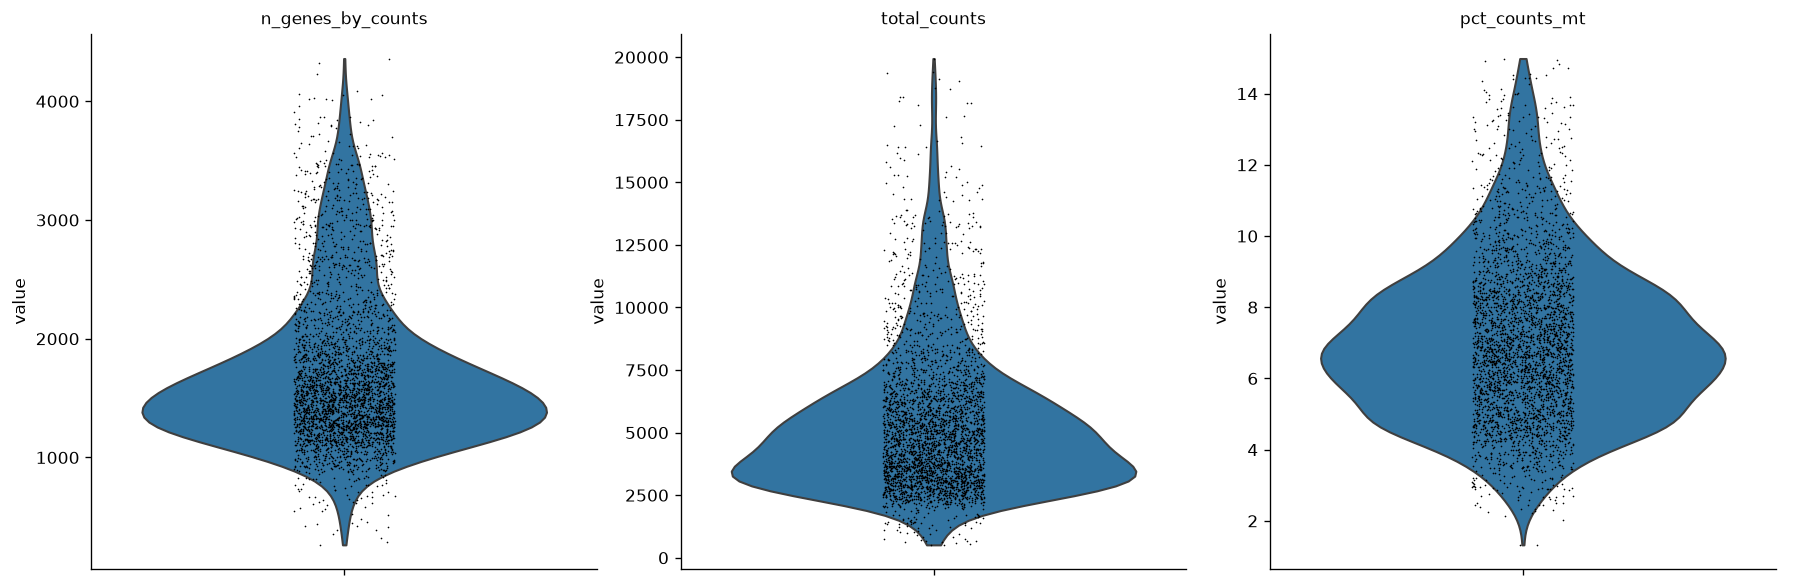
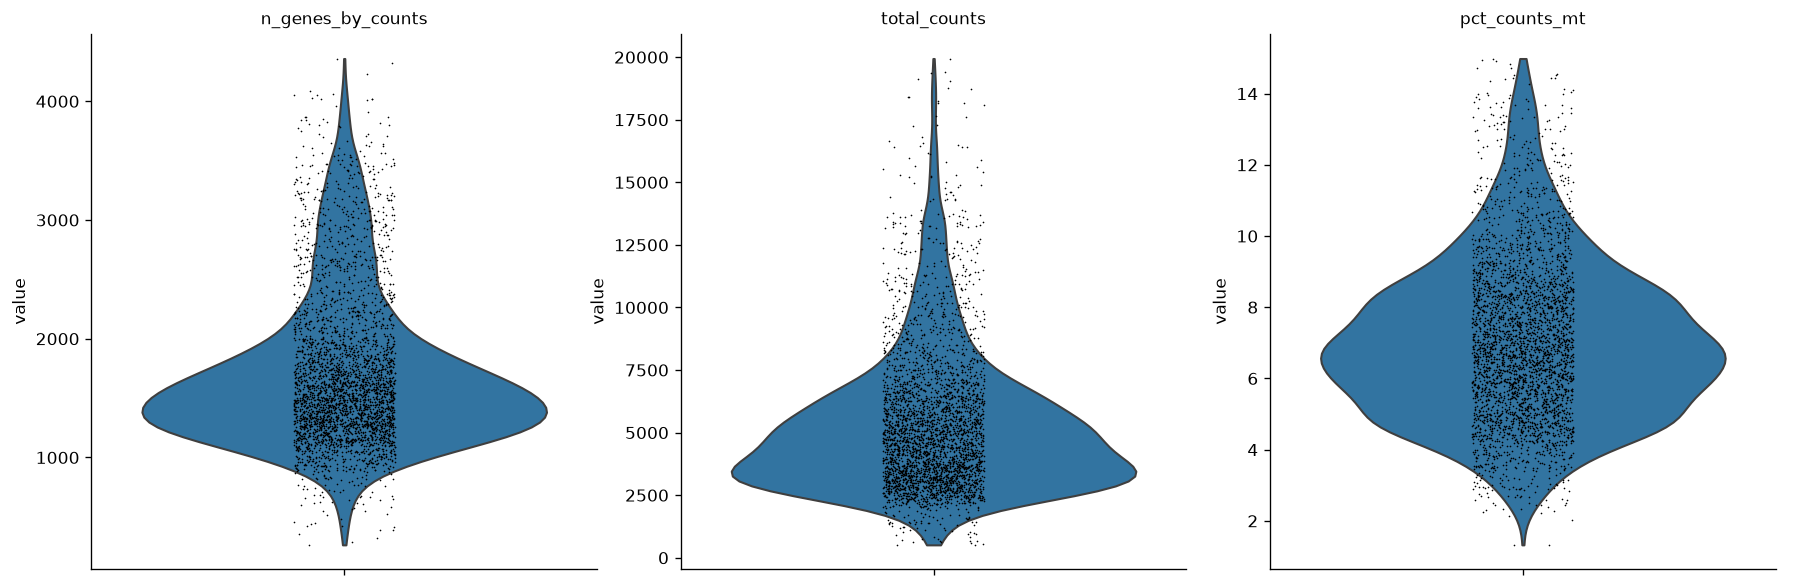
Refresh both examples from full re-runs (with dotplots)
Regenerate examples/pbmc3k/ and examples/pbmc_multibatch/ from complete agent
runs, so both now include the cluster and cell-type marker dotplots. pbmc3k
chose PCA (single batch); pbmc_multibatch chose scVI (batch correction).

diff --git a/examples/pbmc_multibatch/report.md b/examples/pbmc_multibatch/report.md
@@ -1,77 +1,85 @@
-
 # PBMC Multi-Batch scRNA-seq Analysis Report
 
 ## Overview
-This report summarizes the end-to-end analysis of `data/pbmc_multibatch.h5ad`, a peripheral blood mononuclear cell (PBMC) dataset spanning **2 batches**. The workflow proceeded from raw counts through QC, doublet removal, batch-corrected dimensionality reduction, clustering, and cell-type annotation.
+Starting data: 4,000 cells × 15,792 genes (raw counts available), with a genuine two-level `batch` covariate (`n_batches = 2`) in `obs`, indicating this dataset requires batch-aware integration.
 
-## 1. Data Overview
-- Starting dataset: **4,000 cells × 15,792 genes**, raw counts available, 2 batches present in `obs['batch']`.
-- Gene identifiers confirmed as **human gene symbols**, with mitochondrial genes identifiable via the `MT-` prefix (13 mito genes found).
+## 1. Gene Identifiers
+Gene symbols were confirmed as human HGNC symbols (e.g., *NOC2L*, *LINC00115*). The mitochondrial prefix `MT-` was detected (13 mitochondrial genes found), enabling standard PBMC QC.
 
 ## 2. Quality Control
-Per-cell QC metrics were computed (genes/cell, total counts, %mitochondrial reads):
-- Median genes/cell: 1,568 (range 264–4,360)
-- Median total counts: 4,782 (range 516–19,945)
-- Median %mito: 6.9% (range 1.3–20.0%)
+Per-cell QC metrics were computed:
+- **n_genes**: median 1,568 (range 264–4,360)
+- **total_counts**: median 4,783 (range 516–19,945)
+- **pct_counts_mt**: median 6.93% (p75 8.6%, p95 12.2%, max 20.0%)
 
-**Threshold selection:** The tool-suggested tutorial defaults (`min_genes=200`, `max_pct_mt=5.0`, `min_cells=3`) were evaluated first. The default mito cap of 5% would have discarded **3,291 of 4,000 cells (82%)** — clearly inappropriate, since the dataset's own median mito% (6.9%) already exceeds that cutoff, indicating a naturally higher baseline mitochondrial content than the tutorial assumption. Instead, thresholds were set from the dataset's own distribution: `min_genes=200` (removes 0 cells, safe floor), `max_pct_mt=15%` (trims only the extreme high-mito tail beyond the 99th percentile region), and `min_cells=3` for gene filtering.
+**Threshold decision:** The tool's tutorial-default suggestion (`max_pct_mt = 5%`) was rejected because it would have discarded 3,291/4,000 cells (82%) — this dataset's mitochondrial content is systematically higher than the generic PBMC tutorial baseline (median already 6.9%), so a 5% cutoff would eliminate the typical, healthy cell population rather than just dying cells. Instead we used a data-driven cutoff near the p95–p99 range:
+- `min_genes = 200` (removed 0 cells; existing minimum was 264)
+- `max_pct_mt = 15%` (trims only the extreme high-mito tail)
+- `min_cells = 3` (standard low-detection gene filter)
 
-**Result:** 73 cells and 90 genes removed → **3,927 cells × 15,702 genes** retained.
+**Result:** 4,000 → 3,927 cells (73 removed, 1.8%); 15,792 → 15,702 genes (90 removed).
 
 ## 3. Doublet Detection
-Scrublet was run on the filtered data. The doublet-score distribution was **not bimodal** (no clear valley), so per protocol the **median + 3×MAD** rule was applied: threshold = **0.0551**. This flagged 509 cells (12.96%) as likely doublets, which were removed.
+Scrublet was run on the filtered matrix. The score distribution was **not bimodal** (no valley detected: median 0.025, p95 0.080, p99 0.142, long right tail to 0.55). Per the decision rule, we used **median + 3×MAD = 0.0551** as the cutoff (rather than the much higher Scrublet-automatic threshold of 0.47, which would have been too permissive given the absence of a clear bimodal signal).
 
-**Result:** 3,418 cells retained after doublet removal.
+**Result:** 3,927 → 3,418 cells (509 removed, 13.0%), consistent with a batch-pooled PBMC dataset where superimposed batches can inflate apparent doublet rates.
 
 ## 4. Normalization
-Raw counts were stashed, followed by total-count normalization (target sum 1e4), log1p transformation, and highly-variable gene selection (2,000 HVGs flagged) — standard preprocessing prior to dimensionality reduction.
+Raw counts were stashed prior to any transformation. Data were total-count normalized (target sum 1e4), log1p-transformed, and 2,000 highly variable genes flagged for downstream analysis.
 
 ## 5. Dimensionality Reduction
-Since the dataset contains a genuine `batch` covariate with 2 distinct batches, **scVI** was used (rather than plain PCA) to learn a batch-corrected 10-dimensional latent embedding from raw counts restricted to the HVG set (400 training epochs). This representation (`X_scVI`) was used for all downstream neighbor graph, clustering, and UMAP computation.
+Because the dataset contains a real multi-level `batch` key (2 batches), **scVI** was used instead of plain PCA to learn a batch-corrected latent embedding (10 latent dimensions, trained for 400 epochs on raw counts restricted to HVGs). This embedding (`X_scVI`) was used for downstream neighbor graph, clustering, and UMAP.
 
 ## 6. Clustering
-Leiden clustering (resolution = 1.0) on the scVI latent space yielded **13 clusters**, ranging in size from 27 to 707 cells.
+Leiden clustering on the scVI latent space (resolution = 1.0) yielded **13 clusters**, ranging from 27 to 707 cells.
 
-## 7. Marker Genes & Cell-Type Annotation
-Wilcoxon rank-sum marker identification followed by CellTypist (Immune_All_Low model, majority voting per cluster) produced the following annotation:
+## 7. Marker Genes & Cell Type Annotation
+Wilcoxon rank-sum marker identification followed by CellTypist (`Immune_All_Low.pkl`, majority-vote per cluster) produced clear, classical PBMC identities with strong marker concordance:
 
-| Cluster | Size | Top Markers | Cell Type |
+| Cluster | Top markers | Annotated cell type | Size |
 |---|---|---|---|
-| 0 | 369 | S100A9, S100A8, S100A12, VCAN, LYZ | Classical monocytes |
-| 1 | 609 | FTH1, CTSS, NEAT1, CST3, FGL2 | Classical monocytes |
-| 2 | 388 | GNLY, NKG7, PRF1, KLRD1, CST7 | CD16+ NK cells |
-| 3 | 115 | MS4A1, CD79A, HLA-DQA1, CD79B, BANK1 | Memory B cells |
-| 4 | 707 | RPS3A, RPL30, RPL32, RPL11, RPS13 | Tcm/Naive helper T cells |
-| 5 | 155 | CD8B, RPS12, RPS3A, RPS8, RPL32 | Tcm/Naive cytotoxic T cells |
-| 6 | 465 | TRAC, IL7R, IL32, LTB, LDHB | Tem/Effector helper T cells |
-| 7 | 149 | GZMK, KLRB1, IL7R, DUSP2, LYAR | MAIT cells |
-| 8 | 27 | MALAT1, MTRNR2L12, MT-CO1, MT-ATP6, MT-ND5 | Tcm/Naive helper T cells* |
-| 9 | 31 | FCER1A, HLA-DRB1, HLA-DPB1, CD1C, HLA-DPA1 | DC2 |
-| 10 | 167 | IGHM, CD79A, IGHD, CD37, CD74 | Naive B cells |
-| 11 | 182 | CCL5, CST7, NKG7, GZMA, CD3D | Tem/Trm cytotoxic T cells |
-| 12 | 54 | LST1, AIF1, COTL1, MS4A7, FCGR3A | Non-classical monocytes |
+| 0 | S100A9, S100A8, S100A12, VCAN, LYZ | Classical monocytes | 369 |
+| 1 | FTH1, CTSS, NEAT1, CST3, FGL2 | Classical monocytes | 609 |
+| 2 | GNLY, NKG7, PRF1, KLRD1, CST7 | CD16+ NK cells | 388 |
+| 3 | MS4A1, CD79A, HLA-DQA1, CD79B, BANK1 | Memory B cells | 115 |
+| 4 | RPS3A, RPL30, RPL32, RPL11, RPS13 | Tcm/Naive helper T cells | 707 |
+| 5 | CD8B, RPS12, RPS3A, RPS8, RPL32 | Tcm/Naive cytotoxic T cells | 155 |
+| 6 | TRAC, IL7R, IL32, LTB, LDHB | Tem/Effector helper T cells | 465 |
+| 7 | GZMK, KLRB1, IL7R, DUSP2, LYAR | MAIT cells | 149 |
+| 8 | MALAT1, MTRNR2L12, MT-CO1, MT-ATP6, MT-ND5 | Tcm/Naive helper T cells* | 27 |
+| 9 | FCER1A, HLA-DRB1, HLA-DPB1, CD1C, HLA-DPA1 | DC2 | 31 |
+| 10 | IGHM, CD79A, IGHD, CD37, CD74 | Naive B cells | 167 |
+| 11 | CCL5, CST7, NKG7, GZMA, CD3D | Tem/Trm cytotoxic T cells | 182 |
+| 12 | LST1, AIF1, COTL1, MS4A7, FCGR3A | Non-classical monocytes | 54 |
 
-*Cluster 8 caveat: its top markers are dominated by mitochondrial genes (MT-CO1/ATP6/ND5) and MALAT1 rather than clear lineage markers, and it is the smallest cluster (27 cells). This signature is characteristic of stressed/low-quality cells that passed the mito filter rather than a distinct biological population; its CellTypist label (Tcm/Naive helper T cells) should be treated with low confidence.
+\*Cluster 8 (27 cells) is flagged as low-confidence: its top markers (MALAT1, mitochondrial genes MT-CO1/ATP6/ND5/CO3/ND4/CYB) indicate a stressed/low-quality transcriptional signature rather than a distinct T-cell state, despite the CellTypist majority-vote label. This is likely residual technical noise that survived QC as a small, distinct cluster rather than a genuine biological population.
 
-### Overall cell-type composition (n = 3,418 cells)
-| Cell Type | Count |
-|---|---|
-| Classical monocytes | 978 |
-| Tcm/Naive helper T cells | 734 |
-| Tem/Effector helper T cells | 465 |
-| CD16+ NK cells | 388 |
-| Tem/Trm cytotoxic T cells | 182 |
-| Naive B cells | 167 |
-| Tcm/Naive cytotoxic T cells | 155 |
-| MAIT cells | 149 |
-| Memory B cells | 115 |
-| Non-classical monocytes | 54 |
-| DC2 | 31 |
+**Overall cell-type composition (3,418 cells, 11 annotated types):**
+- Classical monocytes: 978 (28.6%)
+- Tcm/Naive helper T cells: 734 (21.5%)
+- Tem/Effector helper T cells: 465 (13.6%)
+- CD16+ NK cells: 388 (11.3%)
+- Tem/Trm cytotoxic T cells: 182 (5.3%)
+- Naive B cells: 167 (4.9%)
+- Tcm/Naive cytotoxic T cells: 155 (4.5%)
+- MAIT cells: 149 (4.4%)
+- Memory B cells: 115 (3.4%)
+- Non-classical monocytes: 54 (1.6%)
+- DC2: 31 (0.9%)
 
-## 8. Conclusions
-The dataset represents a typical human PBMC sample with all expected major lineages present: monocytes (classical + non-classical), T-cell subsets (CD4 naive/effector, CD8 naive/cytotoxic, MAIT), B cells (naive + memory), NK cells, and dendritic cells (DC2). Batch effects between the two input batches were corrected using scVI prior to clustering, and marker-gene profiles are consistent with canonical PBMC identities. One small cluster (cluster 8, 27 cells) appears to reflect low-quality/stressed cells rather than a true cell type and should be interpreted cautiously or excluded in downstream analyses.
+This composition is consistent with expected healthy human PBMC proportions: monocyte and T-cell compartments dominate, with appropriate representation of NK, B-cell, and dendritic cell populations.
 
-Processed data, UMAP embeddings, and QC figures accompany this report, and the final annotated `.h5ad` object has been saved.
+## 8. Methods Summary
+1. QC computed on `MT-`-prefixed mitochondrial genes; thresholds adapted from tutorial defaults to the dataset's actual distribution (min_genes=200, max_pct_mt=15%, min_cells=3).
+2. Doublets removed using Scrublet with a median+3×MAD threshold (0.0551) since the score distribution lacked bimodality.
+3. Raw counts preserved; data normalized (CP10K + log1p) and 2,000 HVGs flagged.
+4. scVI (batch-aware) used for dimensionality reduction given the confirmed 2-batch structure, rather than PCA.
+5. Leiden clustering (res=1.0) on scVI latents → 13 clusters; UMAP computed for visualization.
+6. Cluster identity assigned via Wilcoxon marker genes and CellTypist majority voting.
+
+## Caveats
+- Cluster 8 should be interpreted cautiously (likely stressed/low-quality cells; consider excluding from downstream biological interpretation or re-examining with a stricter mito filter).
+- CellTypist labels for T-cell subsets (naive vs. effector vs. memory) rely on a low-resolution immune reference and could benefit from finer manual curation using canonical markers (e.g., CCR7, SELL, IL7R gradients) if subtype precision is critical.
 
 ## Figures
 

diff --git a/examples/pbmc3k/report.md b/examples/pbmc3k/report.md
@@ -1,62 +1,49 @@
+
 # PBMC3k Single-Cell RNA-seq Analysis Report
 
 ## Overview
-This report summarizes the end-to-end analysis of the PBMC3k dataset (peripheral blood mononuclear cells, 10x Genomics), starting from raw counts and proceeding through QC, doublet removal, normalization, dimensionality reduction, clustering, and cell-type annotation.
+Starting AnnData: 2700 cells x 32738 genes (raw counts, no batch metadata — single sample, single batch). Gene identifiers were confirmed as human gene symbols with the standard `MT-` mitochondrial prefix.
 
-## 1. Dataset Inspection
-- **Input:** 2,700 cells × 32,738 genes, raw counts present, no additional obs metadata, no batch key detected (`candidate_batch_key = null`).
-- Gene identifiers are human gene **symbols** (e.g., MIR1302-10, FAM138A), confirmed by `check_gene_identifiers`, which also detected the mitochondrial gene prefix **"MT-"** (13 mito genes found), consistent with a human PBMC sample.
-- Since only a single batch is present, batch-correction methods (scVI) were not warranted; PCA is the simpler, appropriate choice for dimensionality reduction.
+## Quality Control
+Per-cell QC metrics were computed (n_genes, total_counts, pct_counts_mt). The distribution was typical of PBMC 10x data: median ~817 genes/cell and ~2197 counts/cell, with mitochondrial fraction median 2.0% but a long tail to 22.6%.
 
-## 2. Quality Control
-Per-cell QC metrics computed on 2,700 cells:
-- **n_genes_by_counts:** median 817 (range 212–3422)
-- **total_counts:** median 2197 (range 548–15,844)
-- **pct_counts_mt:** median 2.03% (range 0–22.6%)
+**Thresholds applied** (tutorial-standard, validated against this dataset's distribution):
+- Minimum 200 genes/cell (removed 0 cells — all cells already exceeded this floor)
+- Maximum 5% mitochondrial reads (removed 57 high-mito cells, consistent with the p95=4.0%/p99=5.9% distribution — a clean cutoff isolating a small stressed/dying-cell tail)
+- Minimum 3 cells per gene (removed 19,041 lowly-detected genes)
 
-Tutorial-standard thresholds were recommended and applied, as they fit this dataset well:
-- `min_genes = 200` (removed 0 cells; the natural minimum was already 212)
-- `max_pct_mt = 5.0%` (removed 57 cells with elevated mitochondrial fraction, indicative of stressed/dying cells)
-- `min_cells = 3` (removed 19,041 genes detected in fewer than 3 cells, reducing noise/sparsity)
+Result: **2643 cells x 13,697 genes** after filtering.
 
-**Result:** 2,700 → 2,643 cells; 32,738 → 13,697 genes.
+## Doublet Detection
+Scrublet was run on the filtered matrix. The doublet-score distribution was **not bimodal** (no clear valley), so per protocol the threshold was set using **median + 3×MAD = 0.10**, flagging 222 cells (8.4%) — a plausible doublet rate for a standard 10x droplet run. These 222 cells were removed.
 
-## 3. Doublet Detection and Removal
-Scrublet was run on the filtered matrix. The doublet-score distribution was **not bimodal** (no clear valley), so per protocol the **median + 3×MAD** rule was used rather than a fixed cutoff or the Scrublet automatic threshold (which would have been more permissive at 0.227).
-- Median score: 0.044; MAD-based threshold: **0.10**
-- Cells flagged at this threshold: 222 (8.4%), a plausible doublet rate for a droplet-based 10x run.
+Result: **2421 cells** retained for downstream analysis.
 
-**Result:** 2,643 → 2,421 cells after removing predicted doublets (score ≥ 0.10).
+## Normalization & Dimensionality Reduction
+Raw counts were stashed, then data were total-count normalized (target_sum=1e4), log1p-transformed, and the top 2000 highly variable genes flagged.
 
-## 4. Normalization
-Raw counts were stashed prior to normalization (required for potential downstream raw-count-based methods). Data were then:
-- Total-count normalized to 10,000 counts/cell
-- Log1p transformed
-- 2,000 highly variable genes (HVGs) flagged for downstream analysis
+Since `inspect_dataset` reported **no batch key** (single clean batch), **PCA** was the appropriate choice over scVI — simpler and sufficient absent any batch-correction need. PCA was run with 50 components (PC1 explains 10.3% of variance; top 10 PCs cumulatively explain 31.2%).
 
-## 5. Dimensionality Reduction
-Since the dataset contains a single, clean batch (no batch key), **PCA** was used (scVI was not needed). 50 principal components were computed; the top PC explains 10.3% of variance, with cumulative variance of 31.2% across the top 10 PCs — typical for scRNA-seq data with many small distinct axes of variation.
+## Clustering
+Leiden clustering on the PCA representation (resolution=1.0) yielded **9 clusters**, ranging from 7 to 550 cells, with UMAP coordinates computed for visualization.
 
-## 6. Clustering
-Leiden clustering (resolution = 1.0) on the PCA representation yielded **9 clusters**, ranging in size from 7 to 550 cells. UMAP coordinates were computed for visualization.
+## Marker Genes & Cell-Type Annotation
+Wilcoxon rank-sum marker identification per cluster, combined with CellTypist (Immune_All_Low model, majority vote per cluster), gave highly concordant results:
 
-## 7. Marker Genes and Cell-Type Annotation
-Wilcoxon rank-sum tests identified marker genes per cluster, and CellTypist (Immune_All_Low model) with majority voting assigned cell-type labels per cluster. Marker genes and annotations show strong concordance:
-
-| Cluster | Top Markers | Annotated Cell Type | N cells |
+| Cluster | Size | Top Markers | Annotated Cell Type |
 |---|---|---|---|
-| 0 | CCL5, NKG7, GZMA, CST7, CD3D | Tem/Trm cytotoxic T cells | 260 |
-| 1 | CD74, CD79A, HLA-DRA, CD79B, MS4A1 | B cells | 315 |
-| 2 | LTB, IL32, LDHB, IL7R, CD3D | Tcm/Naive helper T cells | 515 |
-| 3 | RPS12, RPS6, RPL32, RPS27, RPS3A | Tcm/Naive helper T cells | 550 |
-| 4 | LYZ, S100A9, S100A8, TYROBP, FCN1 | Classical monocytes | 446 |
-| 5 | CD74, HLA-DRB1, HLA-DRB5, GAPDH, ACTB | DC | 41 |
-| 6 | GNLY, NKG7, GZMB, PRF1, CTSW | CD16+ NK cells | 140 |
-| 7 | LST1, FCER1G, AIF1, COTL1, FCGR3A | Non-classical monocytes | 147 |
-| 8 | PF4, GNG11, PPBP, SDPR, SPARC | Megakaryocytes/platelets | 7 |
+| 0 | 260 | CCL5, NKG7, GZMA, CST7, CD3D | Tem/Trm cytotoxic T cells |
+| 1 | 315 | CD74, CD79A, HLA-DRA, CD79B | B cells |
+| 2 | 515 | LTB, IL32, IL7R, CD3D, CD3E | Tcm/Naive helper T cells |
+| 3 | 550 | RPS12, RPS6, RPL32, RPS27 (ribosomal-high) | Tcm/Naive helper T cells |
+| 4 | 446 | LYZ, S100A9, S100A8, FCN1 | Classical monocytes |
+| 5 | 41 | CD74, HLA-DRB1, HLA-DRB5 | DC |
+| 6 | 140 | GNLY, NKG7, GZMB, PRF1 | CD16+ NK cells |
+| 7 | 147 | LST1, FCER1G, FCGR3A, AIF1 | Non-classical monocytes |
+| 8 | 7 | PF4, GNG11, PPBP, SDPR | Megakaryocytes/platelets |
 
-**Overall cell-type composition (n = 2,421 cells):**
-- Tcm/Naive helper T cells: 1,065 (44.0%)
+Final overall cell-type composition (n=2421 cells):
+- Tcm/Naive helper T cells: 1065 (44.0%)
 - Classical monocytes: 446 (18.4%)
 - B cells: 315 (13.0%)
 - Tem/Trm cytotoxic T cells: 260 (10.7%)
@@ -65,15 +52,17 @@ Wilcoxon rank-sum tests identified marker genes per cluster, and CellTypist (Imm
 - DC: 41 (1.7%)
 - Megakaryocytes/platelets: 7 (0.3%)
 
-Marker genes strongly support these calls: canonical T cell markers (CD3D/CD3E/IL7R/IL32) drive clusters 0/2/3, B cell markers (CD79A/CD79B/MS4A1) drive cluster 1, monocyte markers (LYZ/S100A8/S100A9/FCN1 for classical; FCGR3A/LST1 for non-classical) drive clusters 4/7, cytotoxic/NK markers (GNLY/NKG7/GZMB/PRF1) drive cluster 6, and platelet markers (PF4/PPBP/GNG11) uniquely and cleanly mark the small cluster 8.
+Marker genes are canonical and unambiguous for each lineage: CD3D/IL7R/LTB for T cells, CD79A/CD74/MS4A1 for B cells, LYZ/S100A8/S100A9/FCN1 for classical monocytes, FCGR3A/LST1 for non-classical monocytes, GNLY/GZMB/PRF1/NKG7 for NK cells, and PF4/PPBP/GNG11 for platelets. Cluster 3, dominated by ribosomal protein genes, was classified with the neighboring T-cell cluster (2) as Tcm/Naive helper T cells — high ribosomal content is common in resting/naive lymphocytes and is consistent with T-cell identity rather than indicating a technical artifact, given the absence of elevated mitochondrial or stress markers in this cluster.
 
-Note: Cluster 3 shows predominantly ribosomal protein genes as top markers (RPS12, RPS6, RPL32, etc.) alongside its Tcm/Naive helper T cell CellTypist call — this is common in high-quality, transcriptionally "quiet" naive T cells and is consistent with the annotation rather than indicating a QC problem.
-
-## 8. Conclusion
-The analysis recovered the expected major PBMC populations (T cell subsets, B cells, monocyte subsets, NK cells, dendritic cells, and a small platelet/megakaryocyte population) with clear, biologically coherent marker gene support. QC and doublet filtering removed a modest fraction of low-quality/ambiguous cells (2,700 → 2,421, ~10.3% total attrition), consistent with standard expectations for this well-characterized benchmark dataset. Final annotated results, UMAP, and QC figures accompany this report.
+## Conclusion
+This analysis reproduces the expected PBMC3k cell-type landscape: a majority of T cells (both cytotoxic and helper/naive subsets), a substantial monocyte compartment (classical and non-classical), B cells, NK cells, a small dendritic cell population, and a very small megakaryocyte/platelet population — all consistent with canonical human peripheral blood mononuclear cell composition. QC filtering (mitochondrial %, gene count) and doublet removal were applied conservatively using data-driven thresholds, retaining 2421 of 2700 original cells (89.7%) for the final annotated dataset.
 
 ## Figures
 
 ![umap](figures/umap.png)
+
+![marker_dotplot_clusters](figures/marker_dotplot_clusters.png)
+
+![marker_dotplot_celltype](figures/marker_dotplot_celltype.png)
 
 ![qc_violin](figures/qc_violin.png)
